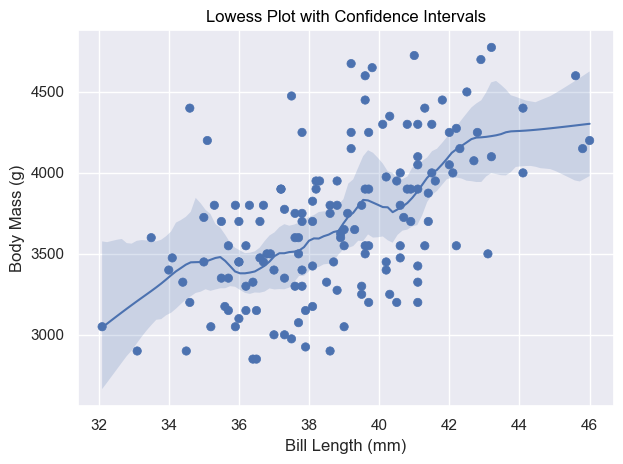
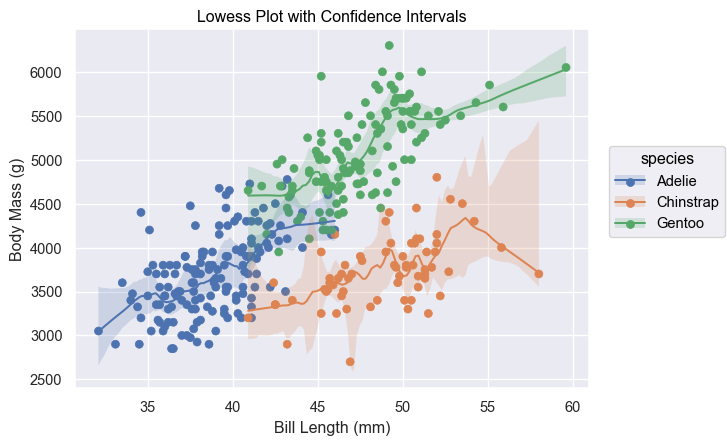
added groupby to lowess

diff --git a/seaborn_objects_recipes/recipes/lowess.py b/seaborn_objects_recipes/recipes/lowess.py
@@ -1,11 +1,11 @@
 from __future__ import annotations
 import numpy as np
 import pandas as pd
-from pandas import DataFrame
 from dataclasses import dataclass
 from seaborn._stats.base import Stat
 import statsmodels.api as sm
 from typing import Optional
+
 
 @dataclass
 class Lowess(Stat):
@@ -39,7 +39,6 @@ class Lowess(Stat):
     delta: float = 0.0
     num_bootstrap: Optional[int] = None
     alpha: float = 0.95
-    
 
     def __post_init__(self):
         # Type checking for the arguments
@@ -47,9 +46,7 @@ class Lowess(Stat):
             raise ValueError("frac must be a float between 0 and 1.")
         if not isinstance(self.gridsize, int) or self.gridsize <= 0:
             raise ValueError("gridsize must be a positive integer.")
-        if self.num_bootstrap is not None and (
-            not isinstance(self.num_bootstrap, int) or self.num_bootstrap <= 0
-        ):
+        if self.num_bootstrap is not None and (not isinstance(self.num_bootstrap, int) or self.num_bootstrap <= 0):
             raise ValueError("num_bootstrap must be a positive integer or None.")
         if not isinstance(self.alpha, float) or not (0 < self.alpha < 1):
             raise ValueError("alpha must be a float between 0 and 1.")
@@ -57,16 +54,14 @@ class Lowess(Stat):
     def _fit_predict(self, data):
         x = data["x"]
         xx = np.linspace(x.min(), x.max(), self.gridsize)
-        result = sm.nonparametric.lowess(
-            endog=data["y"], exog=x, frac=self.frac, delta=self.delta, xvals=xx
-        )
+        result = sm.nonparametric.lowess(endog=data["y"], exog=x, frac=self.frac, delta=self.delta, xvals=xx)
         if result.ndim == 1:  # Handle single-dimensional return values
             yy = result
         else:
             yy = result[:, 1]  # Select the predicted y-values
         return pd.DataFrame(dict(x=xx, y=yy))
 
-    def _bootstrap_resampling(self, data):
+    def _bootstrap_resampling(self, data) -> pd.DataFrame:
         xx = np.linspace(data["x"].min(), data["x"].max(), self.gridsize)
         bootstrap_estimates = np.empty((self.num_bootstrap, len(xx)))
 
@@ -81,14 +76,15 @@ class Lowess(Stat):
             )
             # Ensure the result is two-dimensional
             if result.ndim == 1:
-                result = np.column_stack(
-                    (xx, result)
-                )  # Reformat to two-dimensional if needed
+                result = np.column_stack((xx, result))  # Reformat to two-dimensional if needed
             bootstrap_estimates[i, :] = result[:, 1]
 
-        return xx, bootstrap_estimates
+        lower_bound = np.percentile(bootstrap_estimates, (1 - self.alpha) / 2 * 100, axis=0)
+        upper_bound = np.percentile(bootstrap_estimates, (1 + self.alpha) / 2 * 100, axis=0)
 
-    def __call__(self, data: DataFrame, groupby, orient, scales) -> DataFrame:
+        return pd.DataFrame({"ymin": lower_bound, "ymax": upper_bound})
+
+    def __call__(self, data: pd.DataFrame, groupby, orient, scales) -> pd.DataFrame:
         if orient == "x":
             xvar = data.columns[0]
             yvar = data.columns[1]
@@ -96,19 +92,23 @@ class Lowess(Stat):
             xvar = data.columns[1]
             yvar = data.columns[0]
 
-        renamed_data = data.rename(columns={xvar: "x", yvar: "y"})        
+        renamed_data = data.rename(columns={xvar: "x", yvar: "y"})
         renamed_data = renamed_data.dropna(subset=["x", "y"])
         smoothed = self._fit_predict(renamed_data)
 
-        if self.num_bootstrap:
-            xx, bootstrap_estimates = self._bootstrap_resampling(data)
-            lower_bound = np.percentile(
-                bootstrap_estimates, (1 - self.alpha) / 2 * 100, axis=0
-            )
-            upper_bound = np.percentile(
-                bootstrap_estimates, (1 + self.alpha) / 2 * 100, axis=0
-            )
-            smoothed["ymin"] = lower_bound
-            smoothed["ymax"] = upper_bound
+        grouping_vars = [str(v) for v in data if v in groupby.order]
 
-        return smoothed
+        if not grouping_vars:
+            # If no grouping variables, directly fit and predict
+            smoothed = self._fit_predict(renamed_data)
+        else:
+            # Apply the fit_predict method for each group separately
+            smoothed = groupby.apply(renamed_data, self._fit_predict)
+
+        if self.num_bootstrap:
+            if not grouping_vars:
+                bootstrap_estimates = self._bootstrap_resampling(data)
+            else:
+                bootstrap_estimates = groupby.apply(data, self._bootstrap_resampling)
+
+        return smoothed.join(bootstrap_estimates[["ymin", "ymax"]]) if self.num_bootstrap else smoothed

diff --git a/test_main.py b/test_main.py
@@ -113,12 +113,9 @@ def test_lowess_with_ci(cleanup_files):
     # Load the penguins dataset
     penguins = sns.load_dataset("penguins")
 
-    # Prepare data
-    data = penguins[penguins['species'] == 'Adelie']
-
     # Create the plot
     plot = (
-        so.Plot(data, x="bill_length_mm", y="body_mass_g")
+        so.Plot(penguins, x="bill_length_mm", y="body_mass_g", color="species")
         .add(so.Dot())
         .add(so.Line(), lowess := sor.Lowess(frac=0.2, gridsize=100, num_bootstrap=200, alpha=0.95))
         .add(so.Band(), lowess)

diff --git a/README.md b/README.md
@@ -201,20 +201,19 @@ import seaborn.objects as so
 import seaborn as sns
 import seaborn_objects_recipes as sor
 
+
 def test_lowess_with_ci():
-    
     # Load the penguins dataset
     penguins = sns.load_dataset("penguins")
 
     # Prepare data
     data = penguins.copy()
-    data = penguins[penguins['species'] == 'Adelie']
 
     # Create the plot
     plot = (
-        so.Plot(data, x="bill_length_mm", y="body_mass_g")
+        so.Plot(data, x="bill_length_mm", y="body_mass_g", color="species")
         .add(so.Dot())
-        .add(so.Line(), lowess := sor.Lowess(frac=0.2, gridsize=100, num_bootstrap=200, alpha=0.95))
+        .add(so.Line(), lowess := Lowess(frac=0.2, gridsize=100, num_bootstrap=200, alpha=0.95))
         .add(so.Band(), lowess)
         .label(x="Bill Length (mm)", y="Body Mass (g)", title="Lowess Plot with Confidence Intervals")
     )
